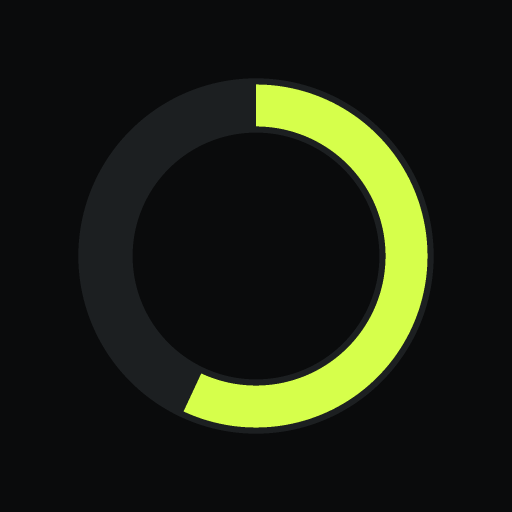
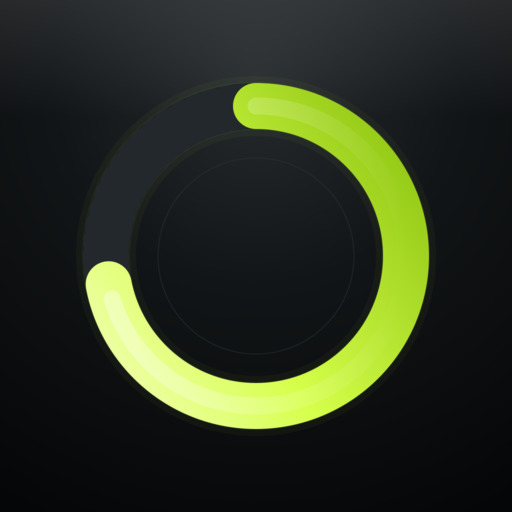
重做 App 图标：渐变玻璃质感圆环

diff --git a/sw.js b/sw.js
@@ -1,5 +1,5 @@
 /* 离线缓存：让 App 在没网的时候也能打开 */
-const CACHE = 'ledger-v42';
+const CACHE = 'ledger-v43';
 const ASSETS = [
   './',
   './index.html',
